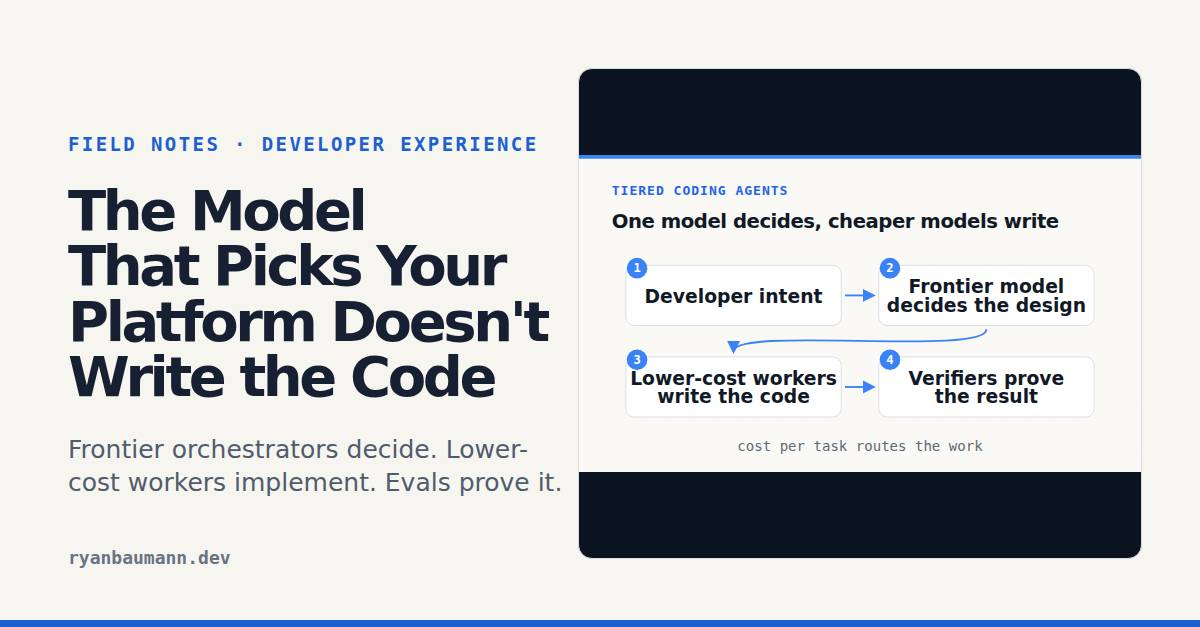
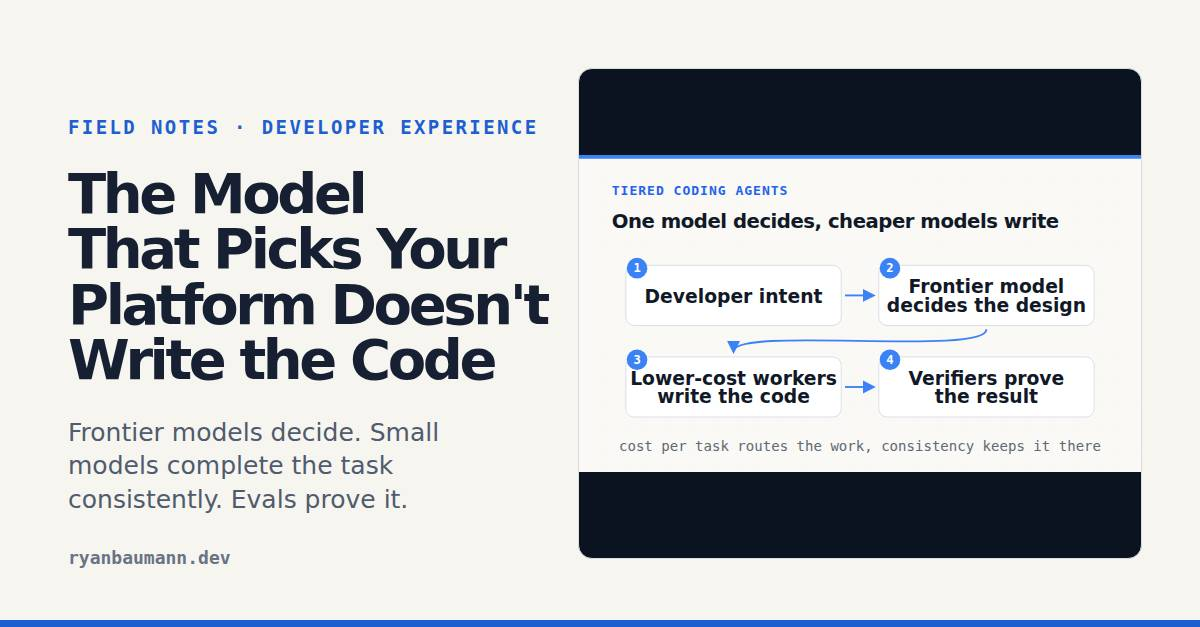
Add the execution consistency scoreboard to the model-tiers Field Note
Per PR review: the execution-side differentiator is completing the same
developer journey reliably on the smallest capable model, with low
run-to-run variance and shrinking context, illustrated with the Gemini
Pro to Flash example. Refresh all three visuals to carry the idea.

Claude-Session: https://claude.ai/code/session_01YCZKSuN5qdJy5S4HpzfzGS

diff --git a/portfolio/content/writing/the-model-that-picks-your-platform-doesnt-write-the-code.md b/portfolio/content/writing/the-model-that-picks-your-platform-doesnt-write-the-code.md
@@ -33,6 +33,8 @@ A developer platform meets this system twice, and the readers want different thi
 
 So the developer experience strategy is not frontier or cheap. It is both, with different assets. Put current, decision-shaping context where the orchestrator plans, and test your examples against the cheapest tier you expect to write the code.
 
+The execution side has its own scoreboard, and it is consistency, not brilliance. A developer journey is not cheap because a small model passes it once. It is cheap when the small model completes the task reliably: the same journey, run after run, with low variance and less context each release. When work that needed Gemini Pro completes just as well on Gemini Flash, developers get the same result faster and at lower cost, and that test applies to every model family you route. Track completion rate, run-to-run variance, and tokens per journey at each tier, and treat a journey that passes one tier lower as a real platform win.
+
 ## Make the loop portable across all of them
 
 You will not control which models or agents developers bring, so the improving loop has to travel. Our team is running that loop for Google Maps Platform through portable [agent skills](/work/agent-skills/) and a [task-based eval suite](/work/agentic-evals/); I lead the strategy and review the traces. Open source the skills and the evals you want agent builders and model teams to learn from, and [keep a held-out set](/writing/builder-platforms-grow-by-owning-the-agent-loop/) so the score stays trustworthy. Then distribute the same tested context everywhere developers work: popular coding agents, open ones, and the internal agents teams are standing up.